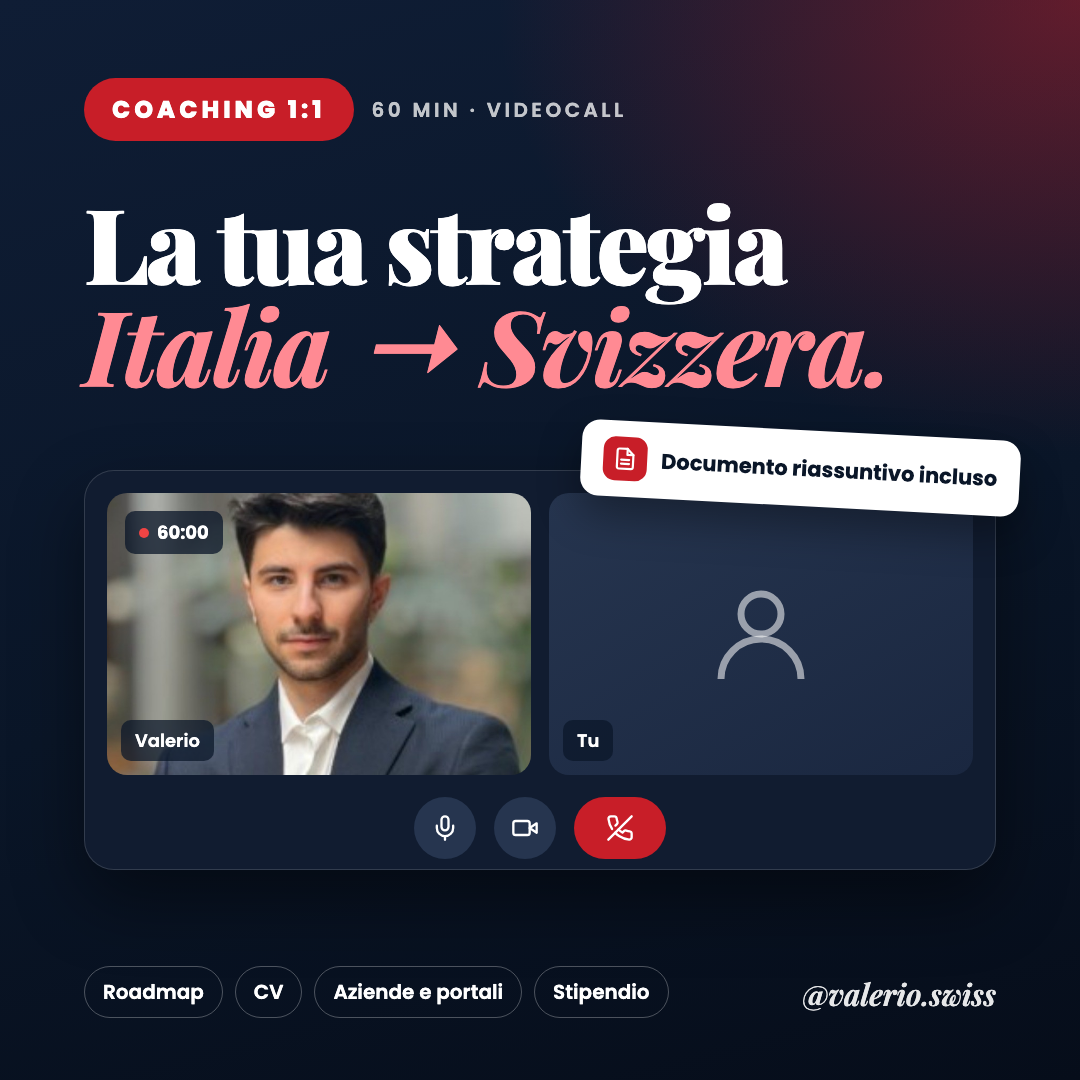
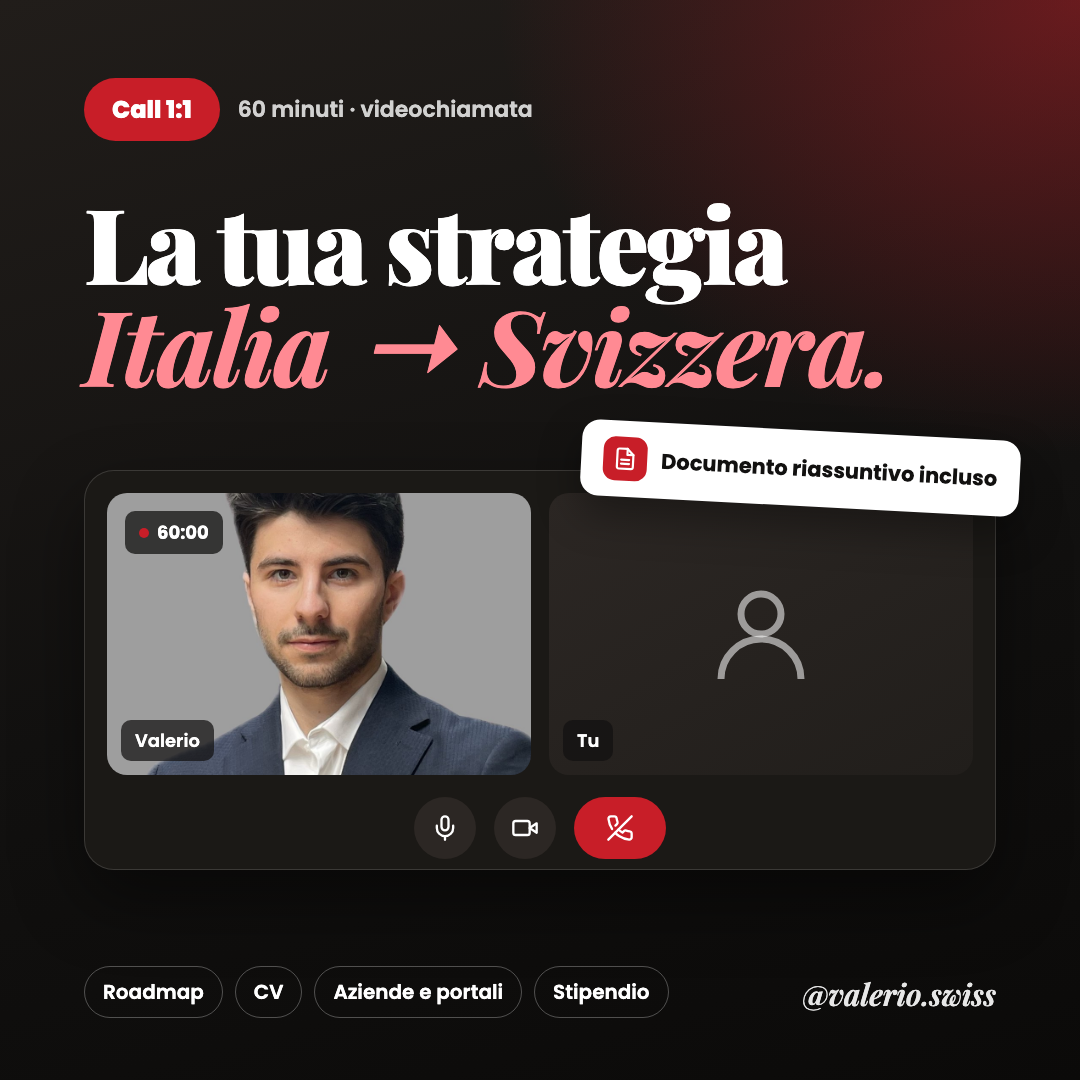
Shop polish (impeccable audit): no labels above titles (site rule), each card shows its key fact next to the price (16-page PDF, 4.7 rating, PDF in 48 hours, 60 minutes), call cover in the brand's warm ink instead of navy with a lowercase label, callout without the thick side border; copy now matche

diff --git a/negozio/cv-pack.html b/negozio/cv-pack.html
@@ -24,7 +24,7 @@
 
   <link rel="stylesheet" href="/assets/fonts/fonts.css"/>
   <link rel="stylesheet" href="../style.css?v=31"/>
-  <link rel="stylesheet" href="negozio.css?v=7"/>
+  <link rel="stylesheet" href="negozio.css?v=8"/>
   <script type="application/ld+json">{"@context": "https://schema.org", "@type": "Product", "@id": "https://valerioswiss.com/negozio/cv-pack#product", "name": "CV Pack svizzero", "description": "Template del CV svizzero in Word, un esempio compilato, una guida di 20 pagine con 5 prompt AI e un feedback sul tuo CV in chat.", "image": ["https://valerioswiss.com/assets/products/cv-pack-1x1.png", "https://valerioswiss.com/assets/products/cv-pack-16x9.png"], "brand": {"@type": "Brand", "name": "@valerio.swiss"}, "offers": {"@type": "Offer", "price": "19", "priceCurrency": "EUR", "availability": "https://schema.org/InStock", "url": "https://valerioswiss.com/negozio/cv-pack"}}</script>
 </head>
 <body>
@@ -78,17 +78,16 @@
   <div class="pd-wrap">
     <div>
       <a href="/negozio/" class="pd-back" data-en="← Guide, CV Pack, CV review and 1:1 call">← Guida, CV Pack, revisione e call 1:1</a><br/>
-      <span class="pd-pill" data-en="CV Pack · 2026 edition">CV Pack · Edizione 2026</span>
       <h1 data-en-html="The CV that works &lt;em&gt;in Switzerland&lt;/em&gt;">Il CV che funziona <em>in Svizzera</em></h1>
       <p class="pd-lead" data-en="An Italian-style CV rarely makes it past the first read in Switzerland. This pack gives you the right format and walks you through writing it, with my feedback on your version. Materials are in Italian.">Un CV all'italiana, in Svizzera, raramente supera la prima lettura. Questo pack ti dà il formato giusto e ti accompagna a scriverlo, con il mio feedback sulla tua versione.</p>
       <div class="pd-rating"><span class="stars" aria-hidden="true">★★★★★</span> <b>4,7</b> <span data-en="in customer reviews">nelle recensioni dei clienti</span></div>
 
       <div class="pd-box">
         <div class="price">19 € <small data-en="one-off payment">una tantum</small></div>
-        <p class="pd-small" style="margin:6px 0 16px" data-en="Instant access: you get the files by email straight after payment.">Accesso immediato: ricevi i file via email subito dopo il pagamento.</p>
+        <p class="pd-small" style="margin:6px 0 16px" data-en="Instant access: download the files right after payment; I also email you the link.">Accesso immediato: scarichi i file subito dopo il pagamento e ti mando il link anche via email.</p>
         <!-- Link reale di Stripe (live, creato il 25/10/2026). -->
         <a class="pd-btn" id="buy-btn" data-stripe="live" href="https://buy.stripe.com/aFaeVf6FC85FdaA11Y6J200" data-en="Get the CV Pack · €19">Acquista il CV Pack · 19 €</a>
-        <p class="pd-small" data-en="Secure payment by card or PayPal.">Pagamento sicuro con carta o PayPal.</p>
+        <p class="pd-small" data-en="Secure payment with Stripe: card, Apple Pay and more.">Pagamento sicuro con Stripe: carta, Apple Pay e altri metodi.</p>
         <p class="pd-small pd-legal"><span class="l-it">Acquistando confermi di avere almeno 18 anni, accetti le <a href="/note-legali">condizioni</a> e chiedi la consegna immediata dei file: se vivi nell'Unione europea, una volta ricevuti perdi il diritto di recesso di 14 giorni. Se un file non funziona, ti mando quello giusto o ti rimborso. <a href="/privacy">Privacy</a>.</span><span class="l-en" lang="en">By buying you confirm you are 18 or over, accept the <a href="/note-legali">terms</a> and ask for immediate delivery of the files: if you live in the European Union, once you receive them you lose the 14-day right of withdrawal. If a file does not work, I send you the right one or refund you. <a href="/privacy">Privacy</a>.</span></p>
       </div>
     </div>
@@ -117,8 +116,8 @@
 <section class="pd-sec">
   <h2 data-en="How it works">Come funziona</h2>
   <ol class="pd-steps">
-    <li class="l-it"><b>Acquisti</b>Paghi 19 € con carta o PayPal e ricevi subito l'email con il link per scaricare guida e template.</li>
-    <li class="l-en" lang="en"><b>Buy</b>Pay €19 by card or PayPal and you'll get the email with the download link for the guide and template straight away.</li>
+    <li class="l-it"><b>Acquisti</b>Paghi 19 € con Stripe e scarichi subito guida e template dalla pagina di conferma; il link ti arriva anche via email.</li>
+    <li class="l-en" lang="en"><b>Buy</b>Pay €19 with Stripe and download the guide and template straight from the confirmation page; you also get the link by email.</li>
     <li class="l-it"><b>Scrivi il tuo CV</b>Leggi la guida (circa 30 minuti), fai l'autoverifica e riscrivi il CV sul template.</li>
     <li class="l-en" lang="en"><b>Write your CV</b>Read the guide (about 30 minutes), do the self-check and rewrite your CV on the template.</li>
     <li class="l-it"><b>Me lo mandi</b>Mi scrivi in DM su Instagram con il PDF del CV: entro 48-72 ore ricevi il mio feedback scritto.</li>

diff --git a/negozio/index.html b/negozio/index.html
@@ -24,7 +24,7 @@
 
   <link rel="stylesheet" href="/assets/fonts/fonts.css"/>
   <link rel="stylesheet" href="../style.css?v=31"/>
-  <link rel="stylesheet" href="negozio.css?v=7"/>
+  <link rel="stylesheet" href="negozio.css?v=8"/>
 </head>
 <body>
 
@@ -74,7 +74,6 @@
 </nav>
 
 <header class="shop-hero">
-  <div class="label" data-en="For anyone who wants to work in Switzerland">Per chi vuole lavorare in Svizzera</div>
   <h1 data-en-html="Start &lt;em&gt;on the right foot&lt;/em&gt;">Parti con il <em>piede giusto</em></h1>
   <p data-en="Four options, from the lightest to the most tailored: the free guide to find your bearings, the CV Pack to apply in the Swiss format, the CV review if you want me to fix it, the 1:1 call to build your strategy.">Quattro strade, dalla più leggera alla più su misura: la guida gratuita per orientarti, il CV Pack per candidarti nel formato svizzero, la revisione del CV se vuoi che lo sistemi io, la call 1:1 per costruire la tua strategia.</p>
 </header>
@@ -82,37 +81,33 @@
 <section class="shop-grid">
   <a class="shop-card" href="/negozio/guida">
     <img class="shop-thumb" src="../assets/products/guida-1x1.png" width="1080" height="1080" alt="" loading="lazy"/>
-    <div class="tag" data-en="Free">Gratis</div>
     <h2 data-en="Guide · Working in Switzerland">Guida · Lavorare in Svizzera</h2>
     <p data-en="16 practical pages: cities, sectors and job boards, the Swiss CV, permits, 2026 salaries, your first steps after arriving and a 30-day roadmap.">16 pagine pratiche: città, settori e portali, CV svizzero, permessi, stipendi 2026, i primi passi dopo l'arrivo e la roadmap dei primi 30 giorni.</p>
-    <div class="price">0 €</div>
+    <div class="price">0 € <span data-en="16-page PDF">· PDF di 16 pagine</span></div>
     <span class="go" data-en="Get the guide">Ricevi la guida</span>
   </a>
 
   <a class="shop-card shop-card--main" href="/negozio/cv-pack">
     <img class="shop-thumb" src="../assets/products/cv-pack-1x1.png" width="1080" height="1080" alt="" loading="lazy"/>
-    <div class="tag" data-en="Top rated">Voto più alto</div>
     <h2 data-en="Swiss CV Pack">CV Pack svizzero</h2>
     <p data-en="A ready-to-edit CV template, a filled-in example, a 20-page guide with 5 AI prompts and my feedback on your CV in chat.">Template del CV pronto da modificare, un esempio compilato, una guida di 20 pagine con 5 prompt AI e il mio feedback in chat sul tuo CV.</p>
-    <div class="price">19 €</div>
+    <div class="price">19 € <span data-en="★ 4.7 from customers">· ★ 4,7 dai clienti</span></div>
     <span class="go" data-en="Find out more">Scopri il CV Pack</span>
   </a>
 
   <a class="shop-card" href="/negozio/revisione-cv">
     <img class="shop-thumb" src="../assets/products/revisione-1x1.png" width="1080" height="1080" alt="" loading="lazy"/>
-    <div class="tag" data-en="Done for you">Fatto da me</div>
     <h2 data-en="CV review · 48 hours">Revisione del CV · 48 ore</h2>
     <p data-en="Send me your CV and within 48 working hours you get a written review as a PDF: diagnosis, headline, profile and key experiences rewritten, the keywords for your role. No call needed.">Mi mandi il CV e entro 48 ore lavorative ricevi una revisione scritta in PDF: diagnosi, titolo, profilo ed esperienze chiave riscritti, le parole chiave per il tuo ruolo. Senza call.</p>
-    <div class="price">39 €</div>
+    <div class="price">39 € <span data-en="PDF within 48 hours">· PDF in 48 ore</span></div>
     <span class="go" data-en="Find out more">Scopri la revisione</span>
   </a>
 
   <a class="shop-card" href="/negozio/call">
     <img class="shop-thumb" src="../assets/products/call-1x1.png" width="1080" height="1080" alt="" loading="lazy"/>
-    <div class="tag" data-en="Tailored">Su misura</div>
     <h2 data-en="1:1 call · 1 hour">Call 1:1 · 1 ora</h2>
     <p data-en="An hour on your case: Italy → Switzerland roadmap, the right companies and job boards for your profile, a realistic salary. After the call you get a written summary.">Un'ora sul tuo caso: roadmap Italia → Svizzera, aziende e portali giusti per il tuo profilo, stipendio realistico. Dopo la call ricevi un documento riassuntivo.</p>
-    <div class="price">69 €</div>
+    <div class="price">69 € <span data-en="60 minutes · ★ 4.5">· 60 minuti · ★ 4,5</span></div>
     <span class="go" data-en="Find out more">Scopri la call</span>
   </a>
 </section>

diff --git a/negozio/call.html b/negozio/call.html
@@ -23,7 +23,7 @@
 
   <link rel="stylesheet" href="/assets/fonts/fonts.css"/>
   <link rel="stylesheet" href="../style.css?v=31"/>
-  <link rel="stylesheet" href="negozio.css?v=7"/>
+  <link rel="stylesheet" href="negozio.css?v=8"/>
   <script type="application/ld+json">{"@context": "https://schema.org", "@type": "Service", "@id": "https://valerioswiss.com/negozio/call#service", "name": "Call 1:1 · Lavorare in Svizzera", "description": "Un'ora in videochiamata sul tuo caso: profilo, CV, dove candidarti e stipendio target in Svizzera, con documento riassuntivo dopo la call.", "image": "https://valerioswiss.com/assets/products/call-1x1.png", "provider": {"@id": "https://valerioswiss.com/#person"}, "serviceType": "Career coaching", "offers": {"@type": "Offer", "price": "69", "priceCurrency": "EUR", "availability": "https://schema.org/InStock", "url": "https://valerioswiss.com/negozio/call"}}</script>
   <meta property="og:image" content="https://valerioswiss.com/assets/products/call-1x1.png"/>
 </head>
@@ -78,7 +78,6 @@
   <div class="pd-wrap">
     <div>
       <a href="/negozio/" class="pd-back" data-en="← Guide, CV Pack, CV review and 1:1 call">← Guida, CV Pack, revisione e call 1:1</a><br/>
-      <span class="pd-pill" data-en="1:1 call · 60 minutes">Call 1:1 · 60 minuti</span>
       <h1 data-en-html="One hour &lt;em&gt;on your case&lt;/em&gt;">Un'ora <em>sul tuo caso</em></h1>
       <p class="pd-lead" data-en="No theory and no pep talk: we look at your profile together and build the plan for getting to Switzerland. After the call you get everything in writing.">Niente teoria e niente discorsi motivazionali: guardiamo insieme il tuo profilo e costruiamo il piano per arrivare in Svizzera. Dopo la call ricevi tutto per iscritto.</p>
       <div class="pd-rating"><span class="stars" aria-hidden="true">★★★★★</span> <b>4,5</b> <span data-en="in customer reviews">nelle recensioni dei clienti</span></div>
@@ -88,7 +87,7 @@
         <p class="pd-small" style="margin:6px 0 16px" data-en="Includes the written summary within 24 hours and 7 days of follow-up questions by DM.">Compresi il documento riassuntivo entro 24 ore e 7 giorni per farmi domande in DM.</p>
         <!-- Prenotazione con Cal.com (dal 25/10/2026): 69 € con Stripe al momento della prenotazione. -->
         <a class="pd-btn" id="book-btn" href="#prenota" data-en="Book the call · €69">Prenota la call · 69 €</a>
-        <p class="pd-small" data-en="Pick a day and time, then pay by card or PayPal.">Scegli giorno e ora, poi paghi con carta o PayPal.</p>
+        <p class="pd-small" data-en="Pick a day and time, then pay securely with Stripe.">Scegli giorno e ora, poi paghi in modo sicuro con Stripe.</p>
         <p class="pd-small pd-legal"><span class="l-it">Prenotando confermi di avere almeno 18 anni e accetti le <a href="/note-legali">condizioni</a>: puoi annullare gratis fino a 24 ore prima, con rimborso completo. Se vivi nell'Unione europea e la call avviene entro 14 giorni dall'acquisto, è perché l'hai chiesto tu: dopo la call il recesso non vale più. Se uso le note automatiche di Google Meet te lo dico prima. <a href="/privacy">Privacy</a>.</span><span class="l-en" lang="en">By booking you confirm you are 18 or over and accept the <a href="/note-legali">terms</a>: you can cancel free of charge up to 24 hours before, with a full refund. If you live in the European Union and the call takes place within 14 days of purchase, it is because you asked for it: after the call the right of withdrawal no longer applies. If I use Google Meet automatic notes, I tell you beforehand. <a href="/privacy">Privacy</a>.</span></p>
       </div>
     </div>

diff --git a/negozio/revisione-cv.html b/negozio/revisione-cv.html
@@ -22,7 +22,7 @@
 
   <link rel="stylesheet" href="/assets/fonts/fonts.css"/>
   <link rel="stylesheet" href="../style.css?v=31"/>
-  <link rel="stylesheet" href="negozio.css?v=7"/>
+  <link rel="stylesheet" href="negozio.css?v=8"/>
   <script type="application/ld+json">{"@context": "https://schema.org", "@type": "Service", "@id": "https://valerioswiss.com/negozio/revisione-cv#service", "name": "Revisione del CV in 48 ore", "description": "Revisione scritta del tuo CV in PDF entro 48 ore lavorative: diagnosi, titolo, profilo e le 3 esperienze principali riscritti, parole chiave per il ruolo.", "image": "https://valerioswiss.com/assets/products/revisione-1x1.png", "provider": {"@id": "https://valerioswiss.com/#person"}, "serviceType": "CV review", "offers": {"@type": "Offer", "price": "39", "priceCurrency": "EUR", "availability": "https://schema.org/InStock", "url": "https://valerioswiss.com/negozio/revisione-cv"}}</script>
   <meta property="og:image" content="https://valerioswiss.com/assets/products/revisione-1x1.png"/>
 </head>
@@ -77,7 +77,6 @@
   <div class="pd-wrap">
     <div>
       <a href="/negozio/" class="pd-back" data-en="← Guide, CV Pack, CV review and 1:1 call">← Guida, CV Pack, revisione e call 1:1</a><br/>
-      <span class="pd-pill" data-en="CV review · PDF within 48 hours">Revisione del CV · PDF in 48 ore</span>
       <h1 data-en-html="Your CV, &lt;em&gt;fixed by me&lt;/em&gt;">Il tuo CV, <em>sistemato da me</em></h1>
       <p class="pd-lead" data-en="Send me your CV and within 48 working hours I'll send you back a written review, point by point, built for the Swiss market (or the country you choose). No call needed.">Mandami il tuo CV e entro 48 ore lavorative ti rimando una revisione scritta, punto per punto, pensata per il mercato svizzero (o per il Paese che scegli). Senza call.</p>
 
@@ -86,7 +85,7 @@
         <p class="pd-small" style="margin:6px 0 16px" data-en="Within 48 working hours of receiving your CV. If I'm late, you get a full refund.">Entro 48 ore lavorative da quando ho il tuo CV. Se arrivo in ritardo, ti rimborso per intero.</p>
         <!-- Link reale di Stripe (live, creato il 25/10/2026). -->
         <a class="pd-btn" id="buy-btn" data-stripe="live" href="https://buy.stripe.com/7sYfZjaVS3Pp4E47qm6J201" data-en="Get my CV reviewed · €39">Voglio la revisione · 39 €</a>
-        <p class="pd-small" data-en="Secure payment by card or PayPal.">Pagamento sicuro con carta o PayPal.</p>
+        <p class="pd-small" data-en="Secure payment with Stripe: card, Apple Pay and more.">Pagamento sicuro con Stripe: carta, Apple Pay e altri metodi.</p>
         <p class="pd-small pd-legal"><span class="l-it">Pagando confermi di avere almeno 18 anni, accetti le <a href="/note-legali">condizioni</a> e chiedi che il lavoro inizi subito: se vivi nell'Unione europea, una volta consegnata la revisione il diritto di recesso di 14 giorni non vale più. Finché non ho iniziato puoi annullare con rimborso completo. <a href="/privacy">Privacy</a>.</span><span class="l-en" lang="en">By paying you confirm you are 18 or over, accept the <a href="/note-legali">terms</a> and ask me to start right away: if you live in the European Union, once the review is delivered the 14-day right of withdrawal no longer applies. Until I start you can cancel for a full refund. <a href="/privacy">Privacy</a>.</span></p>
       </div>
     </div>

diff --git a/negozio/guida.html b/negozio/guida.html
@@ -24,7 +24,7 @@
 
   <link rel="stylesheet" href="/assets/fonts/fonts.css"/>
   <link rel="stylesheet" href="../style.css?v=31"/>
-  <link rel="stylesheet" href="negozio.css?v=7"/>
+  <link rel="stylesheet" href="negozio.css?v=8"/>
   <script type="application/ld+json">{"@context": "https://schema.org", "@type": "Product", "@id": "https://valerioswiss.com/negozio/guida#product", "name": "Guida gratuita · Cercare lavoro in Svizzera", "description": "16 pagine in PDF per cercare lavoro in Svizzera: città, settori e portali, CV svizzero, stipendi e i primi 30 giorni.", "image": "https://valerioswiss.com/assets/products/guida-1x1.png", "brand": {"@type": "Brand", "name": "@valerio.swiss"}, "offers": {"@type": "Offer", "price": "0", "priceCurrency": "EUR", "availability": "https://schema.org/InStock", "url": "https://valerioswiss.com/negozio/guida"}}</script>
 </head>
 <body>
@@ -78,7 +78,6 @@
   <div class="pd-wrap">
     <div>
       <a href="/negozio/" class="pd-back" data-en="← Guide, CV Pack, CV review and 1:1 call">← Guida, CV Pack, revisione e call 1:1</a><br/>
-      <span class="pd-pill" data-en="Free guide · PDF">Guida gratuita · PDF</span>
       <h1 data-en-html="Looking for work in Switzerland: &lt;em&gt;where to start&lt;/em&gt;">Cercare lavoro in Svizzera: <em>da dove partire</em></h1>
       <p class="pd-lead" data-en="The guide I wish I'd had when I started. 16 practical pages to get going from scratch without wasting months. It's in Italian.">La guida che avrei voluto avere quando ho iniziato. 16 pagine pratiche per partire da zero senza perdere mesi.</p>
 

diff --git a/negozio/negozio.css b/negozio/negozio.css
@@ -87,7 +87,7 @@ a.shop-card .go:after{content:" →"}
 .pd-faq details[open] summary:after{content:"–"}
 .pd-faq p{color:var(--text2);line-height:1.6;margin:10px 0 0}
 .pd-next{max-width:1040px;margin:34px auto 0;padding:0 24px}
-.pd-next a{display:block;background:var(--surface);border:1px solid var(--border);border-left:4px solid var(--red);border-radius:0 14px 14px 0;padding:18px 22px;text-decoration:none;color:var(--text2);line-height:1.55}
+.pd-next a{display:block;background:var(--surface);border:1px solid var(--border);border-radius:14px;padding:18px 22px;text-decoration:none;color:var(--text2);line-height:1.55}
 .pd-next a b{color:var(--text)}
 .pd-next a:hover{background:var(--surface-h)}
 .pd-note{max-width:1040px;margin:0 auto;padding:34px 24px 70px;font-size:13px;color:var(--text3);line-height:1.6}
@@ -121,3 +121,6 @@ a.shop-card .go:after{content:" →"}
 
 /* copertine dei prodotti nelle schede, come nella vetrina di Stan (19/10/2026) */
 .shop-thumb{width:100%;height:auto;aspect-ratio:1/1;object-fit:cover;border-radius:calc(var(--r-lg) - 6px);margin:-6px 0 16px;box-shadow:0 10px 28px rgba(0,0,0,.12)}
+
+/* prezzo con il dato chiave al posto dell'etichetta sopra il titolo (26/10/2026) */
+.shop-card .price span{font-size:15px;font-weight:500;color:var(--text2)}

diff --git a/negozio/grazie-call.html b/negozio/grazie-call.html
@@ -16,7 +16,7 @@
 
   <link rel="stylesheet" href="/assets/fonts/fonts.css"/>
   <link rel="stylesheet" href="../style.css?v=31"/>
-  <link rel="stylesheet" href="negozio.css?v=7"/>
+  <link rel="stylesheet" href="negozio.css?v=8"/>
 </head>
 <body>
 

diff --git a/negozio/grazie-cv-pack.html b/negozio/grazie-cv-pack.html
@@ -16,7 +16,7 @@
 
   <link rel="stylesheet" href="/assets/fonts/fonts.css"/>
   <link rel="stylesheet" href="../style.css?v=31"/>
-  <link rel="stylesheet" href="negozio.css?v=7"/>
+  <link rel="stylesheet" href="negozio.css?v=8"/>
 </head>
 <body>
 

diff --git a/negozio/grazie-guida.html b/negozio/grazie-guida.html
@@ -16,7 +16,7 @@
 
   <link rel="stylesheet" href="/assets/fonts/fonts.css"/>
   <link rel="stylesheet" href="../style.css?v=31"/>
-  <link rel="stylesheet" href="negozio.css?v=7"/>
+  <link rel="stylesheet" href="negozio.css?v=8"/>
 </head>
 <body>
 

diff --git a/negozio/grazie-revisione.html b/negozio/grazie-revisione.html
@@ -22,7 +22,7 @@
 
   <link rel="stylesheet" href="/assets/fonts/fonts.css"/>
   <link rel="stylesheet" href="../style.css?v=31"/>
-  <link rel="stylesheet" href="negozio.css?v=7"/>
+  <link rel="stylesheet" href="negozio.css?v=8"/>
 </head>
 <body>
 
